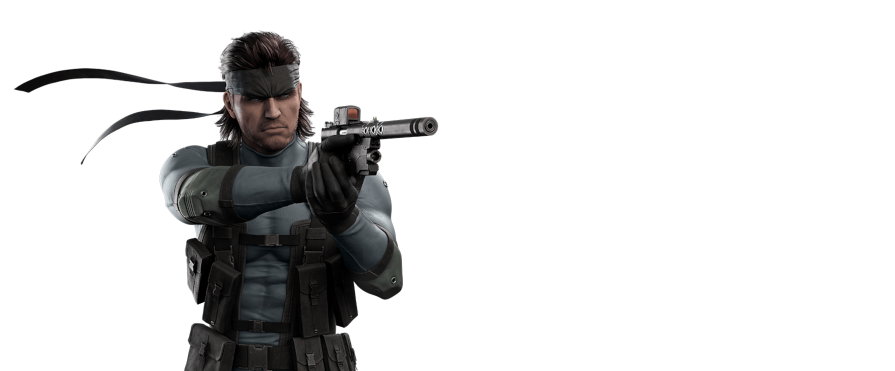
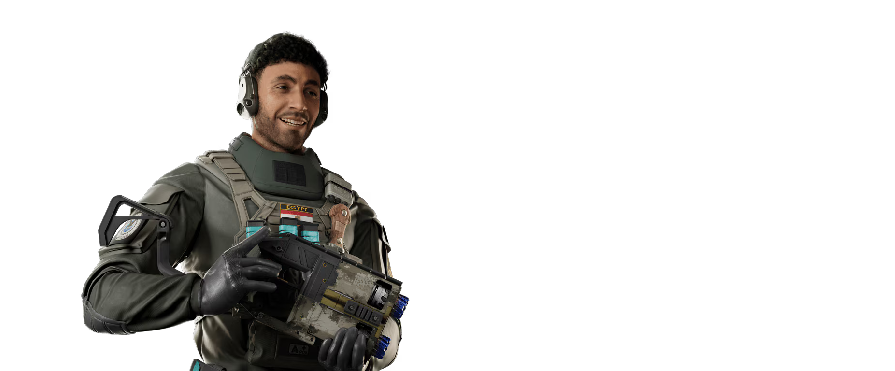
v1.3.1, Noor

Changed region(s): [[0.0, 0.0889, 0.5128, 1.0], [0.0905, 0.3558, 0.1207, 0.3854]]

diff --git a/docs/index.html b/docs/index.html
@@ -52,43 +52,84 @@
             </div>
         </section>
 
-        <section class="grid md:grid-cols-2 gap-4 mb-16">
-            <div class="border border-accent/30 p-6">
-                <h3 class="text-primary uppercase tracking-[0.2em] text-[10px] font-bold mb-4">Key Features</h3>
-                <ul class="text-[11px] space-y-2 list-disc list-inside text-gray-500">
-                    <li>Randomize operator for Attack/Defend.</li>
-                    <li>Persistent operator management (enabled/disabled).</li>
-                    <li>Loadout randomizer (Primaries, Secondaries, Gadgets).</li>
-                    <li>In-game overlay toggle (Shift + F5).</li>
-                </ul>
-            </div>
-            <div class="border border-accent/30 p-6">
-                <h3 class="text-primary uppercase tracking-[0.2em] text-[10px] font-bold mb-4">Troubleshooting</h3>
-                <ul class="text-[11px] space-y-2 list-disc list-inside text-gray-500">
-                    <li>Must enable at least one operator.</li>
-                    <li>Use borderless windowed mode for overlay.</li>
-                    <li>Verify hotkey is not bound elsewhere.</li>
-                </ul>
-            </div>
-        </section>
+                <details open class="content-card p-6 rounded-xl bg-card-bg border-2 border-gray-700 transition-all duration-300 md:col-span-2">
+                    <summary class="tracking-wider">Changelog</summary>
+                    <div class="pt-4 space-y-6">
+                        <div class="border-b border-gray-700 pb-4">
+                            <h3>v1.3.1 (Latest)</h3>
+                            <ul class="text-subtle-text space-y-1">
+                                <li><strong>YEAR 11 SEASON 3 — Operation Split Fire</strong></li>
+                                <li>Added new operator: <strong>Noor</strong></li>
+                            </ul>
+                        </div>
+                        <div class="border-b border-gray-700 pb-4">
+                            <h3>v1.3.0</h3>
+                            <ul class="text-subtle-text space-y-1">
+                                <li><strong>YEAR 11 SEASON 1 — Operation Silent Hunt</strong></li>
+                                <li>Added new operator: <strong>Solid Snake</strong></li>
+                                <li><strong>Live API Integration</strong>: The app now syncs directly with R6 Roulette to get the latest operator data.</li>
+                                <li><strong>Auto-Caching</strong>: Data is fetched once at startup and cached locally to ensure fast performance and offline support.</li>
+                            </ul>
+                        </div>
+                        <div class="border-b border-gray-700 pb-4">
+                            <h3>v1.2.1</h3>
+                            <ul class="text-subtle-text space-y-1">
+                                <li>Added loadout randomizer</li>
+                                <li>Primary weapons, Secondary weapons, Attachments, Grips, Scopes, Gadgets</li>
+                            </ul>
+                        </div>
+                        <div class="border-b border-gray-700 pb-4">
+                            <h3>v1.2.0</h3>
+                            <ul class="text-subtle-text space-y-1">
+                                <li>YEAR 10 SEASON 3 — Operation High Stakes</li>
+                                <li>Added new operator: Leon "Denari" Winzenried</li>
+                                <li>Transparent for an overlay-like look.</li>
+                                <li>Updated hotkey logic (Shift + F5 to toggle visibility).</li>
+                                <li>Note: This is not a true game overlay like Discord, Steam, or NVIDIA Overlays.</li>
+                                <li>Overlay now locks to the top-right corner of the screen.</li>
+                                <li>Minor UI improvements and bug fixes.</li>
+                            </ul>
+                        </div>
+                        <div class="border-b border-gray-700 pb-4">
+                            <h3>v1.1.1</h3>
+                            <ul class="text-subtle-text space-y-1">
+                                <li>Minor changes.</li>
+                            </ul>
+                        </div>
+                        <div class="border-b border-gray-700 pb-4">
+                            <h3>v1.1.0</h3>
+                            <ul class="text-subtle-text space-y-1">
+                                <li>Operators enabled/disabled state now saves automatically to a config file.</li>
+                                <li>When reopening the app, previously selected operators are restored.</li>
+                            </ul>
+                        </div>
+                        <div>
+                            <h3>v1.0.0</h3>
+                            <ul class="text-subtle-text space-y-1">
+                                <li>Initial release.</li>
+                                <li>Randomize operators for Attackers or Defenders.</li>
+                                <li>Enable or disable operators in settings.</li>
+                                <li>Prevents duplicate picks until reset.</li>
+                            </ul>
+                        </div>
+                    </div>
+                </details>
 
-        <section class="mb-16">
-            <h2 class="text-primary uppercase tracking-[0.2em] mb-6 text-[12px] font-bold">Changelog</h2>
-            <div class="space-y-8 text-sm">
-                <div>
-                    <h3 class="text-primary font-bold">v1.3.0</h3>
-                    <p class="text-gray-500 text-xs">Year 11 S1, New Operator: Solid Snake, Live API integration, Auto-Caching.</p>
-                </div>
-                <div>
-                    <h3 class="text-primary font-bold">v1.2.1</h3>
-                    <p class="text-gray-500 text-xs">Added full loadout randomizer (attachments, grips, scopes).</p>
-                </div>
-                <div>
-                    <h3 class="text-primary font-bold">v1.2.0</h3>
-                    <p class="text-gray-500 text-xs">Year 10 S3, Leon "Denari" Winzenried, Overlay UI improvements.</p>
-                </div>
-            </div>
-        </section>
+                <details class="content-card p-6 rounded-xl bg-card-bg border-2 border-gray-700 transition-all duration-300">
+                    <summary class="tracking-wider">Screenshots</summary>
+                    <div class="pt-4 space-y-6">
+                        <h3>Main Window</h3>
+                        <img src="https://raw.githubusercontent.com/MRITARI/Rainbow-Six-Siege-Randomizer/refs/heads/master/images/ss.png" alt="Main Window Screenshot" class="rounded-lg border-2 border-gray-700">
+                        <h3>Settings Menu</h3>
+                        <img src="https://raw.githubusercontent.com/MRITARI/Rainbow-Six-Siege-Randomizer/refs/heads/master/images/ss2.png" alt="Settings Menu Screenshot" class="rounded-lg border-2 border-gray-700">
+                    </div>
+                </details>
+
+                <details class="content-card p-6 rounded-xl bg-card-bg border-2 border-gray-700 transition-all duration-300">
+                    <summary class="tracking-wider">Troubleshooting</summary>
+                    <div class="pt-4 space-y-6">
+                        <h3>No Operators Enabled</h3>
+                        <p class="text-subtle-text">You must enable at least one operator for the randomizer to work.</p>
 
         <section class="mb-16 border-t border-accent/20 pt-8">
             <h2 class="text-primary uppercase tracking-[0.2em] mb-4 text-[12px] font-bold">MIT License</h2>

diff --git a/r6random/Form2.Designer.cs b/r6random/Form2.Designer.cs
@@ -113,6 +113,7 @@
             this.scopesToolStripMenuItem = new System.Windows.Forms.ToolStripMenuItem();
             this.gadgetsToolStripMenuItem = new System.Windows.Forms.ToolStripMenuItem();
             this.pictureBox_77 = new System.Windows.Forms.PictureBox();
+            this.pictureBox_78 = new System.Windows.Forms.PictureBox();
             ((System.ComponentModel.ISupportInitialize)(this.pictureBox_1)).BeginInit();
             ((System.ComponentModel.ISupportInitialize)(this.pictureBox_2)).BeginInit();
             ((System.ComponentModel.ISupportInitialize)(this.pictureBox_3)).BeginInit();
@@ -191,6 +192,7 @@
             ((System.ComponentModel.ISupportInitialize)(this.pictureBox_76)).BeginInit();
             this.menuStrip1.SuspendLayout();
             ((System.ComponentModel.ISupportInitialize)(this.pictureBox_77)).BeginInit();
+            ((System.ComponentModel.ISupportInitialize)(this.pictureBox_78)).BeginInit();
             this.SuspendLayout();
             // 
             // pictureBox_1
@@ -900,12 +902,21 @@
             this.pictureBox_77.TabStop = false;
             this.pictureBox_77.Click += new System.EventHandler(this.pictureBox_78_Click);
             // 
+            // pictureBox_78
+            // 
+            this.pictureBox_78.Location = new System.Drawing.Point(910, 460);
+            this.pictureBox_78.Name = "pictureBox_78";
+            this.pictureBox_78.Size = new System.Drawing.Size(67, 65);
+            this.pictureBox_78.TabIndex = 84;
+            this.pictureBox_78.TabStop = false;
+            // 
             // Form2
             // 
             this.AutoScaleDimensions = new System.Drawing.SizeF(6F, 13F);
             this.AutoScaleMode = System.Windows.Forms.AutoScaleMode.Font;
             this.BackgroundImage = global::r6random.Properties.Resources._907782_2;
             this.ClientSize = new System.Drawing.Size(1014, 572);
+            this.Controls.Add(this.pictureBox_78);
             this.Controls.Add(this.pictureBox_77);
             this.Controls.Add(this.pictureBox_76);
             this.Controls.Add(this.pictureBox_75);
@@ -1068,6 +1079,7 @@
             this.menuStrip1.ResumeLayout(false);
             this.menuStrip1.PerformLayout();
             ((System.ComponentModel.ISupportInitialize)(this.pictureBox_77)).EndInit();
+            ((System.ComponentModel.ISupportInitialize)(this.pictureBox_78)).EndInit();
             this.ResumeLayout(false);
             this.PerformLayout();
 
@@ -1160,5 +1172,6 @@
         private System.Windows.Forms.ToolStripMenuItem scopesToolStripMenuItem;
         private System.Windows.Forms.ToolStripMenuItem gadgetsToolStripMenuItem;
         private System.Windows.Forms.PictureBox pictureBox_77;
+        private System.Windows.Forms.PictureBox pictureBox_78;
     }
 }

diff --git a/r6random/Form1.cs b/r6random/Form1.cs
@@ -20,7 +20,7 @@ namespace r6random
     {
         private const string GitHubRepoOwner = "MRITARI";
         private const string GitHubRepoName = "Rainbow-Six-Siege-Randomizer";
-        private static readonly Version CurrentVersion = new Version("1.3.0");
+        private static readonly Version CurrentVersion = new Version("1.3.1");
         private static readonly HttpClient client = new HttpClient();
         private const string ApiKey = "ftm04857ht08745htjf";
         private const int WH_KEYBOARD_LL = 13;

diff --git a/r6random/Form1.Designer.cs b/r6random/Form1.Designer.cs
@@ -182,7 +182,7 @@
             this.textBox1.Name = "textBox1";
             this.textBox1.Size = new System.Drawing.Size(429, 20);
             this.textBox1.TabIndex = 10;
-            this.textBox1.Text = "By: MRITARI, Version: 1.3, Season: Y11S1, Data by: api.r6roulette.de";
+            this.textBox1.Text = "By: MRITARI, Version: 1.3.1, Season: Y11S3, Data by: api.r6roulette.de";
             this.textBox1.TextAlign = System.Windows.Forms.HorizontalAlignment.Center;
             // 
             // closeBtn

diff --git a/r6random/Properties/AssemblyInfo.cs b/r6random/Properties/AssemblyInfo.cs
@@ -29,5 +29,5 @@ using System.Runtime.InteropServices;
 //      Build Number
 //      Revision
 //
-[assembly: AssemblyVersion("1.3.0.0")]
-[assembly: AssemblyFileVersion("1.3.0.0")]
+[assembly: AssemblyVersion("1.3.1.0")]
+[assembly: AssemblyFileVersion("1.3.1.0")]

diff --git a/README.md b/README.md
@@ -19,6 +19,10 @@ Special thanks to the R6 Roulette team for providing API access to keep this too
 
 ## Changelog
 
+### v1.3.1 (Latest)
+- **YEAR 11 SEASON 3 — Operation Split Fire**
+- Added new operator: **Noor**
+
 ### v1.3.0 (Latest)
 - **YEAR 11 SEASON 1 — Operation Silent Hunt**
 - Added new operator: **Solid Snake**
